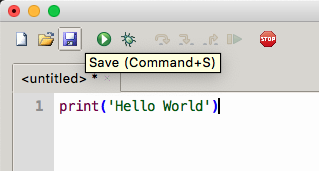
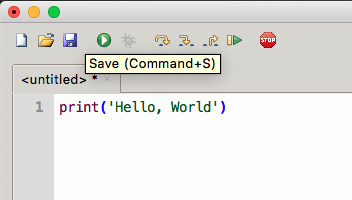
Fix typo

Changed region(s): [[0.0, 0.0, 1.0, 1.0]]

diff --git a/devenv/thonny.rst b/devenv/thonny.rst
@@ -32,7 +32,7 @@ Podemos observar que la pantalla está dividida en 3 paneles:
 * *Panel derecho* que contiene el **depurador**. Más concretamente se trata de la ventana de variables donde podemos *inspeccionar* el valor de las mismas.
 
 Versiones de Python
-===================
+-------------------
 
 Existen múltiples versiones de Python. Desde el lanzamiento de la versión 1.0 en 1994 se han ido liberando versiones, cada vez, con nuevas características que aportan riqueza al lenguaje:
 
@@ -57,21 +57,21 @@ El intérprete de Python (por lo general) se identifica claramente porque posee 
     Type "help", "copyright", "credits" or "license" for more information.
     >>>
 
-Para hacer una primera prueba del intérprete vamos a retomar el primer programa que se suele hacer. Es el llamado :ref:`"Hello World" <introduction/machine:Ensamblador>`. Para ello escribimos lo siguiente en el intérprete y pulsamos la tecla :kbd:`ENTER`::
+Para hacer una primera prueba del intérprete vamos a retomar el primer programa que se suele hacer. Es el llamado :ref:`"Hello, World" <introduction/machine:Ensamblador>`. Para ello escribimos lo siguiente en el intérprete y pulsamos la tecla :kbd:`ENTER`::
 
-    >>> print('Hello World')
-    Hello World
+    >>> print('Hello, World')
+    Hello, World
 
-Lo que hemos hecho es indicarle a Python que ejecute como **entrada** la instrucción ``print('Hello World')``. La **salida** es el texto ``Hello World`` que lo vemos en la siguiente línea (*ya sin el prompt* ``>>>``).
+Lo que hemos hecho es indicarle a Python que ejecute como **entrada** la instrucción ``print('Hello, World')``. La **salida** es el texto ``Hello, World`` que lo vemos en la siguiente línea (*ya sin el prompt* ``>>>``).
 
 Probando el editor
 ==================
 
-Ahora vamos a realizar la misma operación, pero en vez de ejecutar la instrucción directamente en el intérprete, vamos a crear un fichero y guardarlo con la sentencia que nos interesa. Para ello escribimos ``print('Hello World')`` en el panel de edición (*superior*) y luego guardamos el archivo con el nombre ``helloworld.py`` [#save-file]_:
+Ahora vamos a realizar la misma operación, pero en vez de ejecutar la instrucción directamente en el intérprete, vamos a crear un fichero y guardarlo con la sentencia que nos interesa. Para ello escribimos ``print('Hello, World')`` en el panel de edición (*superior*) y luego guardamos el archivo con el nombre ``helloworld.py`` [#save-file]_:
 
 .. figure:: img/thonny-save.png
 
-   Guardando nuestro primer programa Python
+   Guardando nuestro primer programa en Python
 
 .. important:: Los ficheros que contienen programas hechos en Python siempre deben tener la extensión ``.py``
 
@@ -86,16 +86,16 @@ Nos falta por probar el depurador o "debugger". Aunque su funcionamiento va much
     :linenos:
     :emphasize-lines: 1
 
-    msg = 'Hello World'
+    msg = 'Hello, World'
     print(msg)
 
 Aunque ya lo veremos en profundidad, lo que hemos hecho es incorporar una variable ``msg`` en la *línea 1* para luego utilizarla al mostrar por pantalla su contenido. Si ahora volvemos a ejecutar nuestro programa veremos que en el panel de variables nos aparece la siguiente información:
 
-+---------+-------------------+
-|  Name   |       Value       |
-+=========+===================+
-| ``msg`` | ``'Hello World'`` |
-+---------+-------------------+
++---------+--------------------+
+|  Name   |       Value        |
++=========+====================+
+| ``msg`` | ``'Hello, World'`` |
++---------+--------------------+
 
 También existe la posibilidad, a través del depurador, de ir ejecutando nuestro programa **paso a paso**. Para ello basta con pulsar en el botón que tiene un *insecto*. Ahí comienza la sesión de depuración y podemos avanzar instrucción por instrucción usando la tecla :kbd:`F7`:
 
